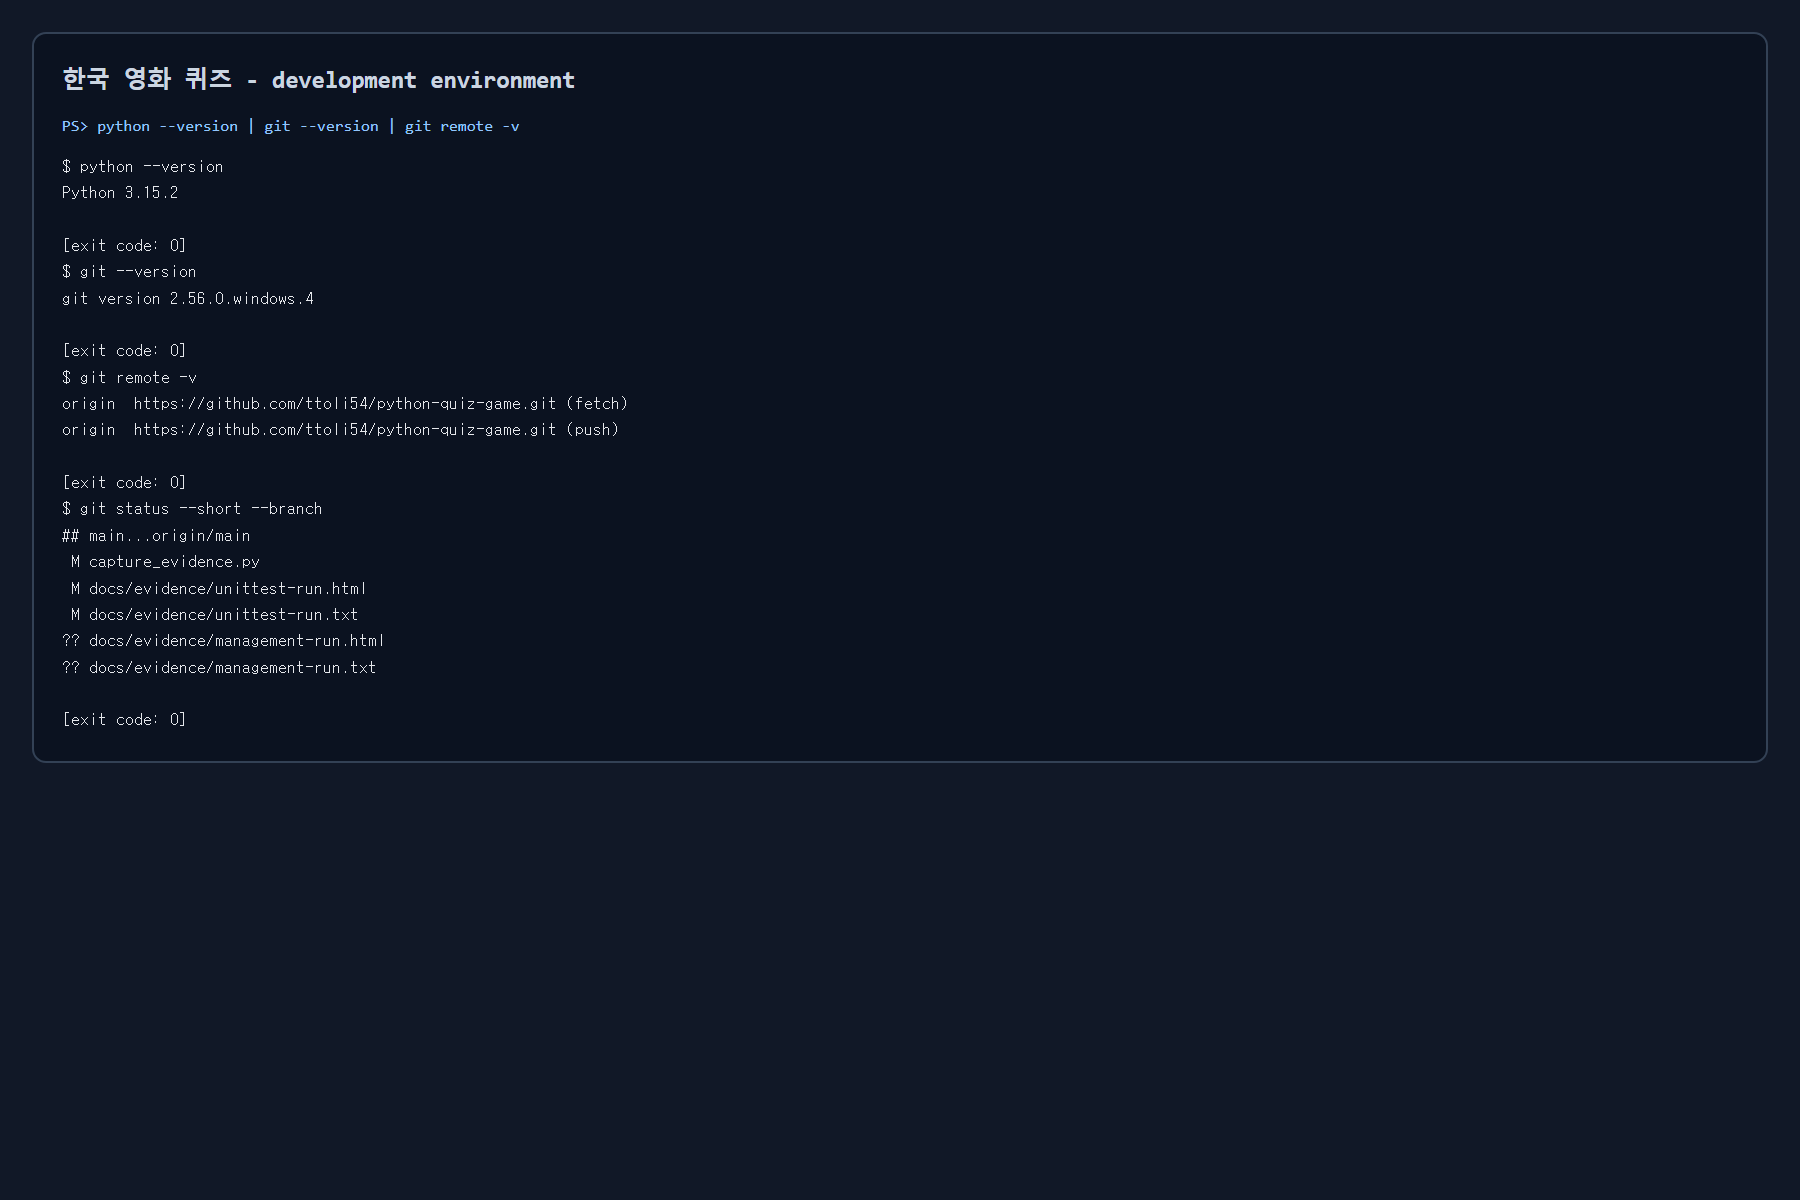
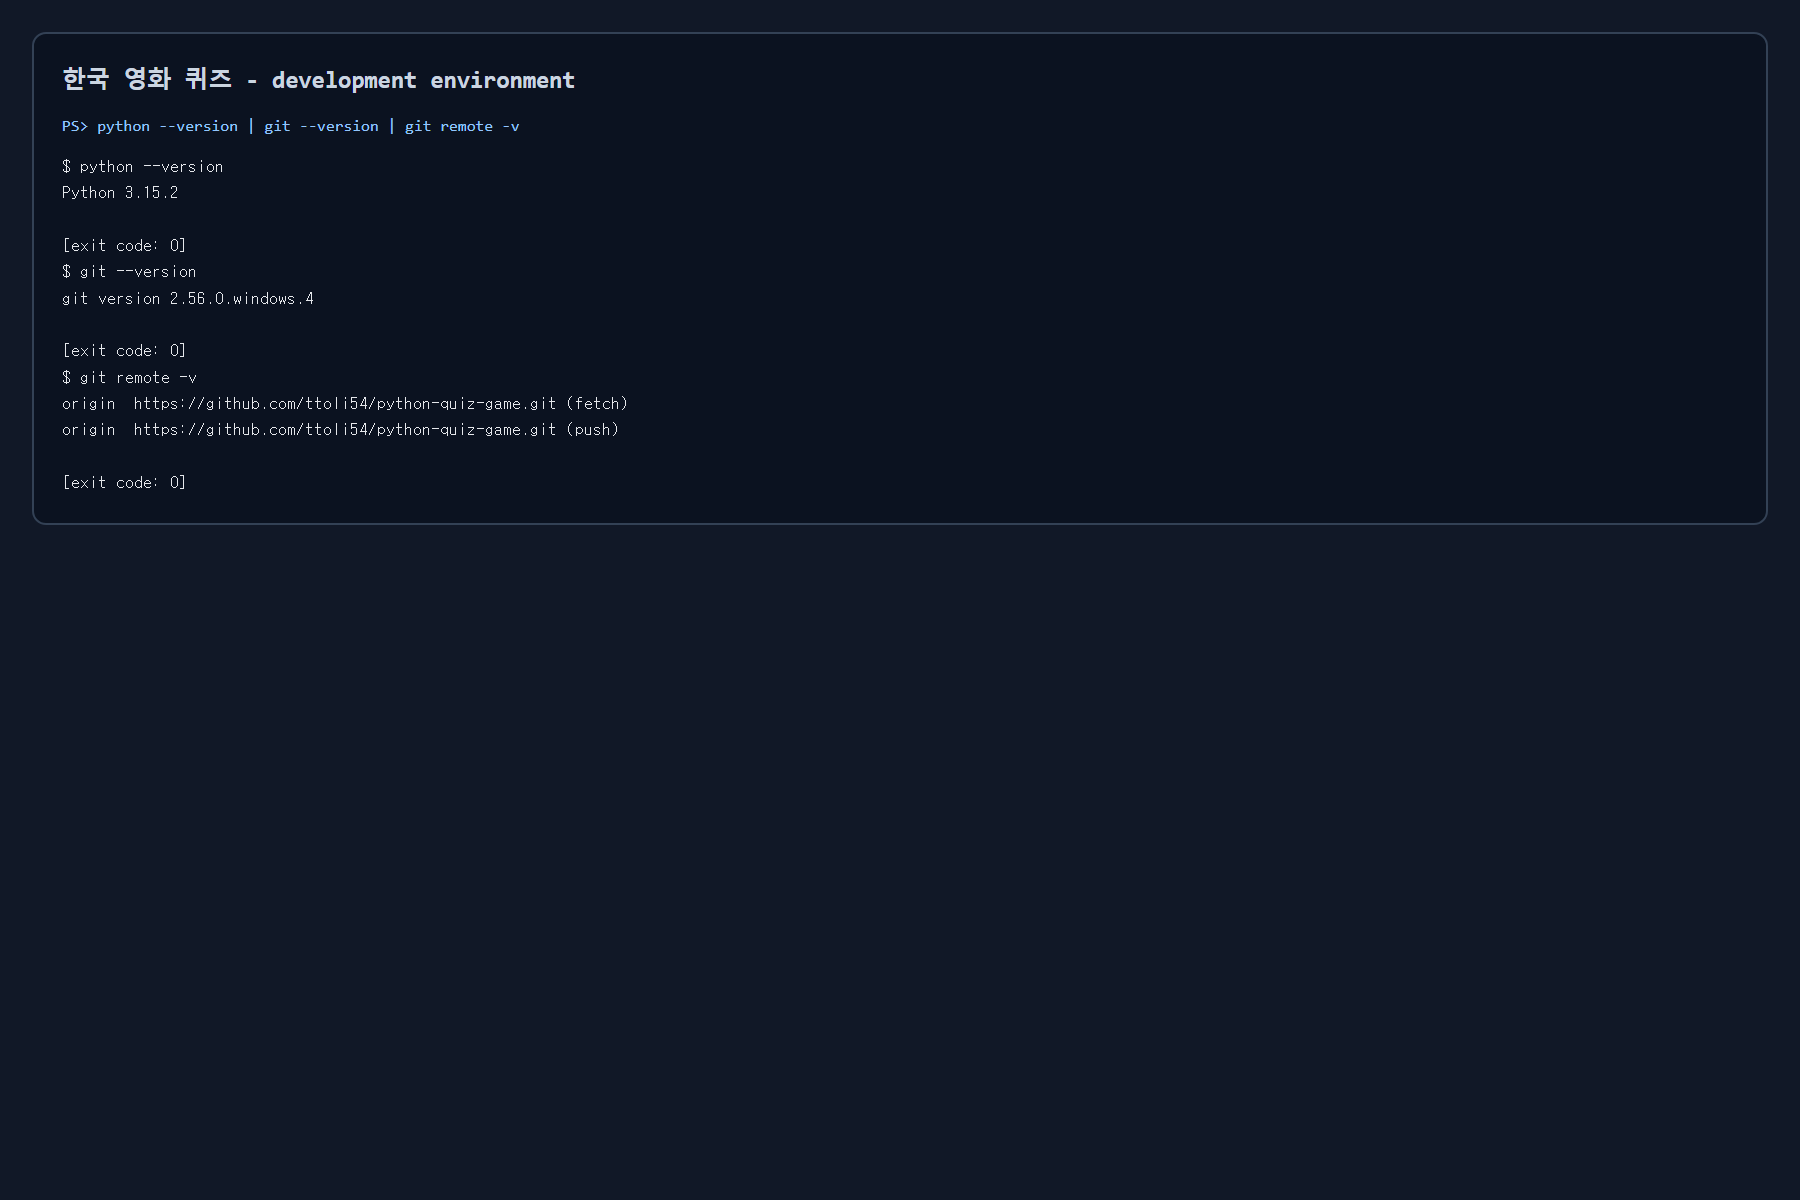
docs: refresh final verification evidence

Changed region(s): [[0.0933, 0.4317, 0.1244, 0.4625], [0.0311, 0.4317, 0.0622, 0.4625]]

diff --git a/docs/evidence/git-log-run.html b/docs/evidence/git-log-run.html
@@ -10,7 +10,8 @@ pre { white-space: pre; font-size: 17px; line-height: 1.55; margin: 0; }
 <h1>한국 영화 퀴즈 - git history</h1>
 <div class="command">PS&gt; git log --oneline --graph --decorate --all</div>
 <pre>$ git log --oneline --graph --decorate --all -20
-* a89a981 (HEAD -&gt; main, origin/main, origin/HEAD) docs: add requirement verification evidence
+* f943625 (HEAD -&gt; main, origin/main, origin/HEAD) docs: add complete requirement screenshots
+* a89a981 docs: add requirement verification evidence
 * e5047ec Add quiz execution evidence and score summary
 * df3c908 docs: record final evidence count
 * 229944e docs: update final commit count
@@ -32,11 +33,10 @@ pre { white-space: pre; font-size: 17px; line-height: 1.55; margin: 0; }
 |/
 * 083ecad feat: add quiz management and score screens
 * 4f9ce3d fix: handle invalid input and safe exits
-* 87159c7 feat: implement basic quiz game flow
 
 [exit code: 0]
 $ git rev-list --count --all
-24
+25
 
 [exit code: 0]</pre>
 </main></body></html>

diff --git a/docs/evidence/development-environment-run.html b/docs/evidence/development-environment-run.html
@@ -21,14 +21,5 @@ $ git remote -v
 origin	https://github.com/ttoli54/python-quiz-game.git (fetch)
 origin	https://github.com/ttoli54/python-quiz-game.git (push)
 
-[exit code: 0]
-$ git status --short --branch
-## main...origin/main
- M capture_evidence.py
- M docs/evidence/unittest-run.html
- M docs/evidence/unittest-run.txt
-?? docs/evidence/management-run.html
-?? docs/evidence/management-run.txt
-
 [exit code: 0]</pre>
 </main></body></html>

diff --git a/docs/evidence/unittest-run.html b/docs/evidence/unittest-run.html
@@ -40,7 +40,7 @@ test_state_missing_required_key_recovers (tests.test_quiz_game.StorageTests.test
 test_valid_state_round_trips_and_corrupt_state_recovers (tests.test_quiz_game.StorageTests.test_valid_state_round_trips_and_corrupt_state_recovers) ... ok
 
 ----------------------------------------------------------------------
-Ran 27 tests in 0.248s
+Ran 27 tests in 0.225s
 
 OK
 

diff --git a/capture_evidence.py b/capture_evidence.py
@@ -105,8 +105,6 @@ def main() -> int:
             run_command(["git", "--version"]),
             "$ git remote -v",
             run_command(["git", "remote", "-v"]),
-            "$ git status --short --branch",
-            run_command(["git", "status", "--short", "--branch"]),
         ]
     )
     write_terminal_page(
